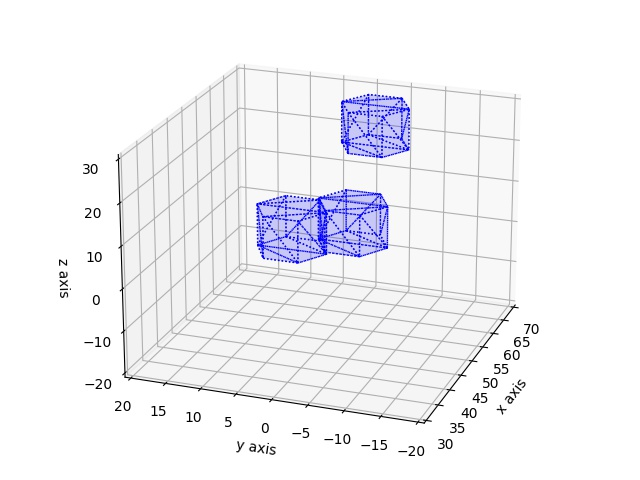
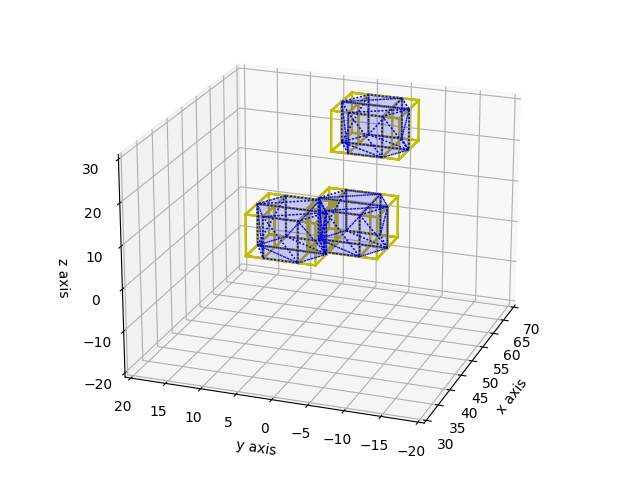
-

Changed region(s): [[0.375, 0.375, 0.625, 0.5625], [0.5, 0.1875, 0.6562, 0.3438]]

diff --git a/sk/2025/04/aabb_ucgen_kesismesi_carpisma_saptamasi.html b/sk/2025/04/aabb_ucgen_kesismesi_carpisma_saptamasi.html
@@ -347,6 +347,25 @@ objelerde olduğu gibi <code>AABB.IAABB</code> arayüzünden miras alımı yapac
 </code></pre>
 </div>
 
+<p>Üçgenlerin AABB kutusunu da çizelim, nasıl gözüktüğü belli olsun,
+altta görüldüğü gibi tek kutu yok, üçgenleri kapsayan birkaç tane kutu
+var.</p>
+
+<div class="codehilite">
+<pre><span></span><code><span class="n">ax</span> <span class="o">=</span> <span class="n">a3</span><span class="o">.</span><span class="n">Axes3D</span><span class="p">(</span><span class="n">plt</span><span class="o">.</span><span class="n">figure</span><span class="p">())</span>        
+<span class="n">o1</span><span class="o">.</span><span class="n">plot</span><span class="p">(</span><span class="n">ax</span><span class="p">)</span>
+<span class="k">for</span> <span class="n">tri</span> <span class="ow">in</span> <span class="n">o1</span><span class="o">.</span><span class="n">get_aabb_triangles</span><span class="p">():</span> <span class="n">tri</span><span class="o">.</span><span class="n">plot</span><span class="p">(</span><span class="n">ax</span><span class="p">)</span>
+<span class="n">ax</span><span class="o">.</span><span class="n">set_xlim</span><span class="p">(</span><span class="mi">50</span><span class="p">,</span><span class="mi">65</span><span class="p">);</span><span class="n">ax</span><span class="o">.</span><span class="n">set_ylim</span><span class="p">(</span><span class="mi">0</span><span class="p">,</span><span class="mi">20</span><span class="p">);</span> <span class="n">ax</span><span class="o">.</span><span class="n">set_zlim</span><span class="p">(</span><span class="o">-</span><span class="mi">20</span><span class="p">,</span><span class="mi">10</span><span class="p">)</span>
+<span class="n">ax</span><span class="o">.</span><span class="n">set_xlabel</span><span class="p">(</span><span class="s2">&quot;x axis&quot;</span><span class="p">);</span><span class="n">ax</span><span class="o">.</span><span class="n">set_ylabel</span><span class="p">(</span><span class="s2">&quot;y axis&quot;</span><span class="p">);</span><span class="n">ax</span><span class="o">.</span><span class="n">set_zlabel</span><span class="p">(</span><span class="s2">&quot;z axis&quot;</span><span class="p">)</span>
+<span class="n">ax</span><span class="o">.</span><span class="n">view_init</span><span class="p">(</span><span class="n">elev</span><span class="o">=</span><span class="mi">21</span><span class="p">,</span> <span class="n">azim</span><span class="o">=</span><span class="mi">200</span><span class="p">)</span>
+<span class="n">plt</span><span class="o">.</span><span class="n">savefig</span><span class="p">(</span><span class="s1">&#39;coll_04.jpg&#39;</span><span class="p">)</span>
+</code></pre>
+</div>
+
+<p><img src="coll_04.jpg" alt="" /></p>
+
+<p>Animasyon kodunu yazabiliriz.</p>
+
 <div class="codehilite">
 <pre><span></span><code><span class="k">def</span> <span class="nf">run_animation</span><span class="p">(</span><span class="n">offsets</span><span class="p">,</span> <span class="n">dirs</span><span class="p">,</span> <span class="n">azim</span><span class="p">):</span>
     <span class="k">if</span> <span class="ow">not</span> <span class="n">os</span><span class="o">.</span><span class="n">path</span><span class="o">.</span><span class="n">exists</span><span class="p">(</span><span class="s2">&quot;/tmp/coll&quot;</span><span class="p">):</span> <span class="n">os</span><span class="o">.</span><span class="n">mkdir</span> <span class="p">(</span><span class="s2">&quot;/tmp/coll&quot;</span><span class="p">)</span>
@@ -433,6 +452,15 @@ mesela [4] yazısında görülen pervane cisminin yüzeyinde 1000'den fazla
 yaptığımızı düşünelim, bu 1000 x 1000, yine bir milyondan fazla hesap
 yapmak anlamına gelecektir. Ağaç araması (ve elemesi) ile bu yükten
 kurtulmuş olduk.</p>
+
+<p>Ayrıca objeler hareket ettikten sonra yapılan <code>update_object</code>
+çağrısına dikkat. Bu çağrı ile objenin yeri AABB Ağaçı içinde
+güncellenmiş oldu. Kullandığımızın AABB Ağaç kodunu seçmemizin bir
+sebebi bu tür güncellemeye izin vermesiydi, eğer güncelleme mümkün
+değilse ya da hızlı bir şekilde yapılamıyorsa obje yerlerini
+indisleyen bu yaklaşımı kullanmak anlamsız olurdu. Yüzlerce objenin
+olduğu bir anımasyon düşünsek her karede her seferinde ağaçı silbaştan
+yaratmak performanta düşüşe sebep olacaktı. </p>
 
 <p>Not</p>
 

diff --git a/sk/2025/04/aabb_ucgen_kesismesi_carpisma_saptamasi.md b/sk/2025/04/aabb_ucgen_kesismesi_carpisma_saptamasi.md
@@ -299,8 +299,25 @@ class STLObj(AABB.IAABB):
         return AABB.AABB(x,y,z,w,h,d)
 ```
 
-```python
+Üçgenlerin AABB kutusunu da çizelim, nasıl gözüktüğü belli olsun,
+altta görüldüğü gibi tek kutu yok, üçgenleri kapsayan birkaç tane kutu
+var.
 
+```python
+ax = a3.Axes3D(plt.figure())        
+o1.plot(ax)
+for tri in o1.get_aabb_triangles(): tri.plot(ax)
+ax.set_xlim(50,65);ax.set_ylim(0,20); ax.set_zlim(-20,10)
+ax.set_xlabel("x axis");ax.set_ylabel("y axis");ax.set_zlabel("z axis")
+ax.view_init(elev=21, azim=200)
+plt.savefig('coll_04.jpg')
+```
+
+![](coll_04.jpg)
+
+Animasyon kodunu yazabiliriz.
+
+```python
 def run_animation(offsets, dirs, azim):
     if not os.path.exists("/tmp/coll"): os.mkdir ("/tmp/coll")
 
@@ -383,6 +400,15 @@ mesela [4] yazısında görülen pervane cisminin yüzeyinde 1000'den fazla
 yaptığımızı düşünelim, bu 1000 x 1000, yine bir milyondan fazla hesap
 yapmak anlamına gelecektir. Ağaç araması (ve elemesi) ile bu yükten
 kurtulmuş olduk.
+
+Ayrıca objeler hareket ettikten sonra yapılan `update_object`
+çağrısına dikkat. Bu çağrı ile objenin yeri AABB Ağaçı içinde
+güncellenmiş oldu. Kullandığımızın AABB Ağaç kodunu seçmemizin bir
+sebebi bu tür güncellemeye izin vermesiydi, eğer güncelleme mümkün
+değilse ya da hızlı bir şekilde yapılamıyorsa obje yerlerini
+indisleyen bu yaklaşımı kullanmak anlamsız olurdu. Yüzlerce objenin
+olduğu bir anımasyon düşünsek her karede her seferinde ağaçı silbaştan
+yaratmak performanta düşüşe sebep olacaktı. 
 
 Not
 
